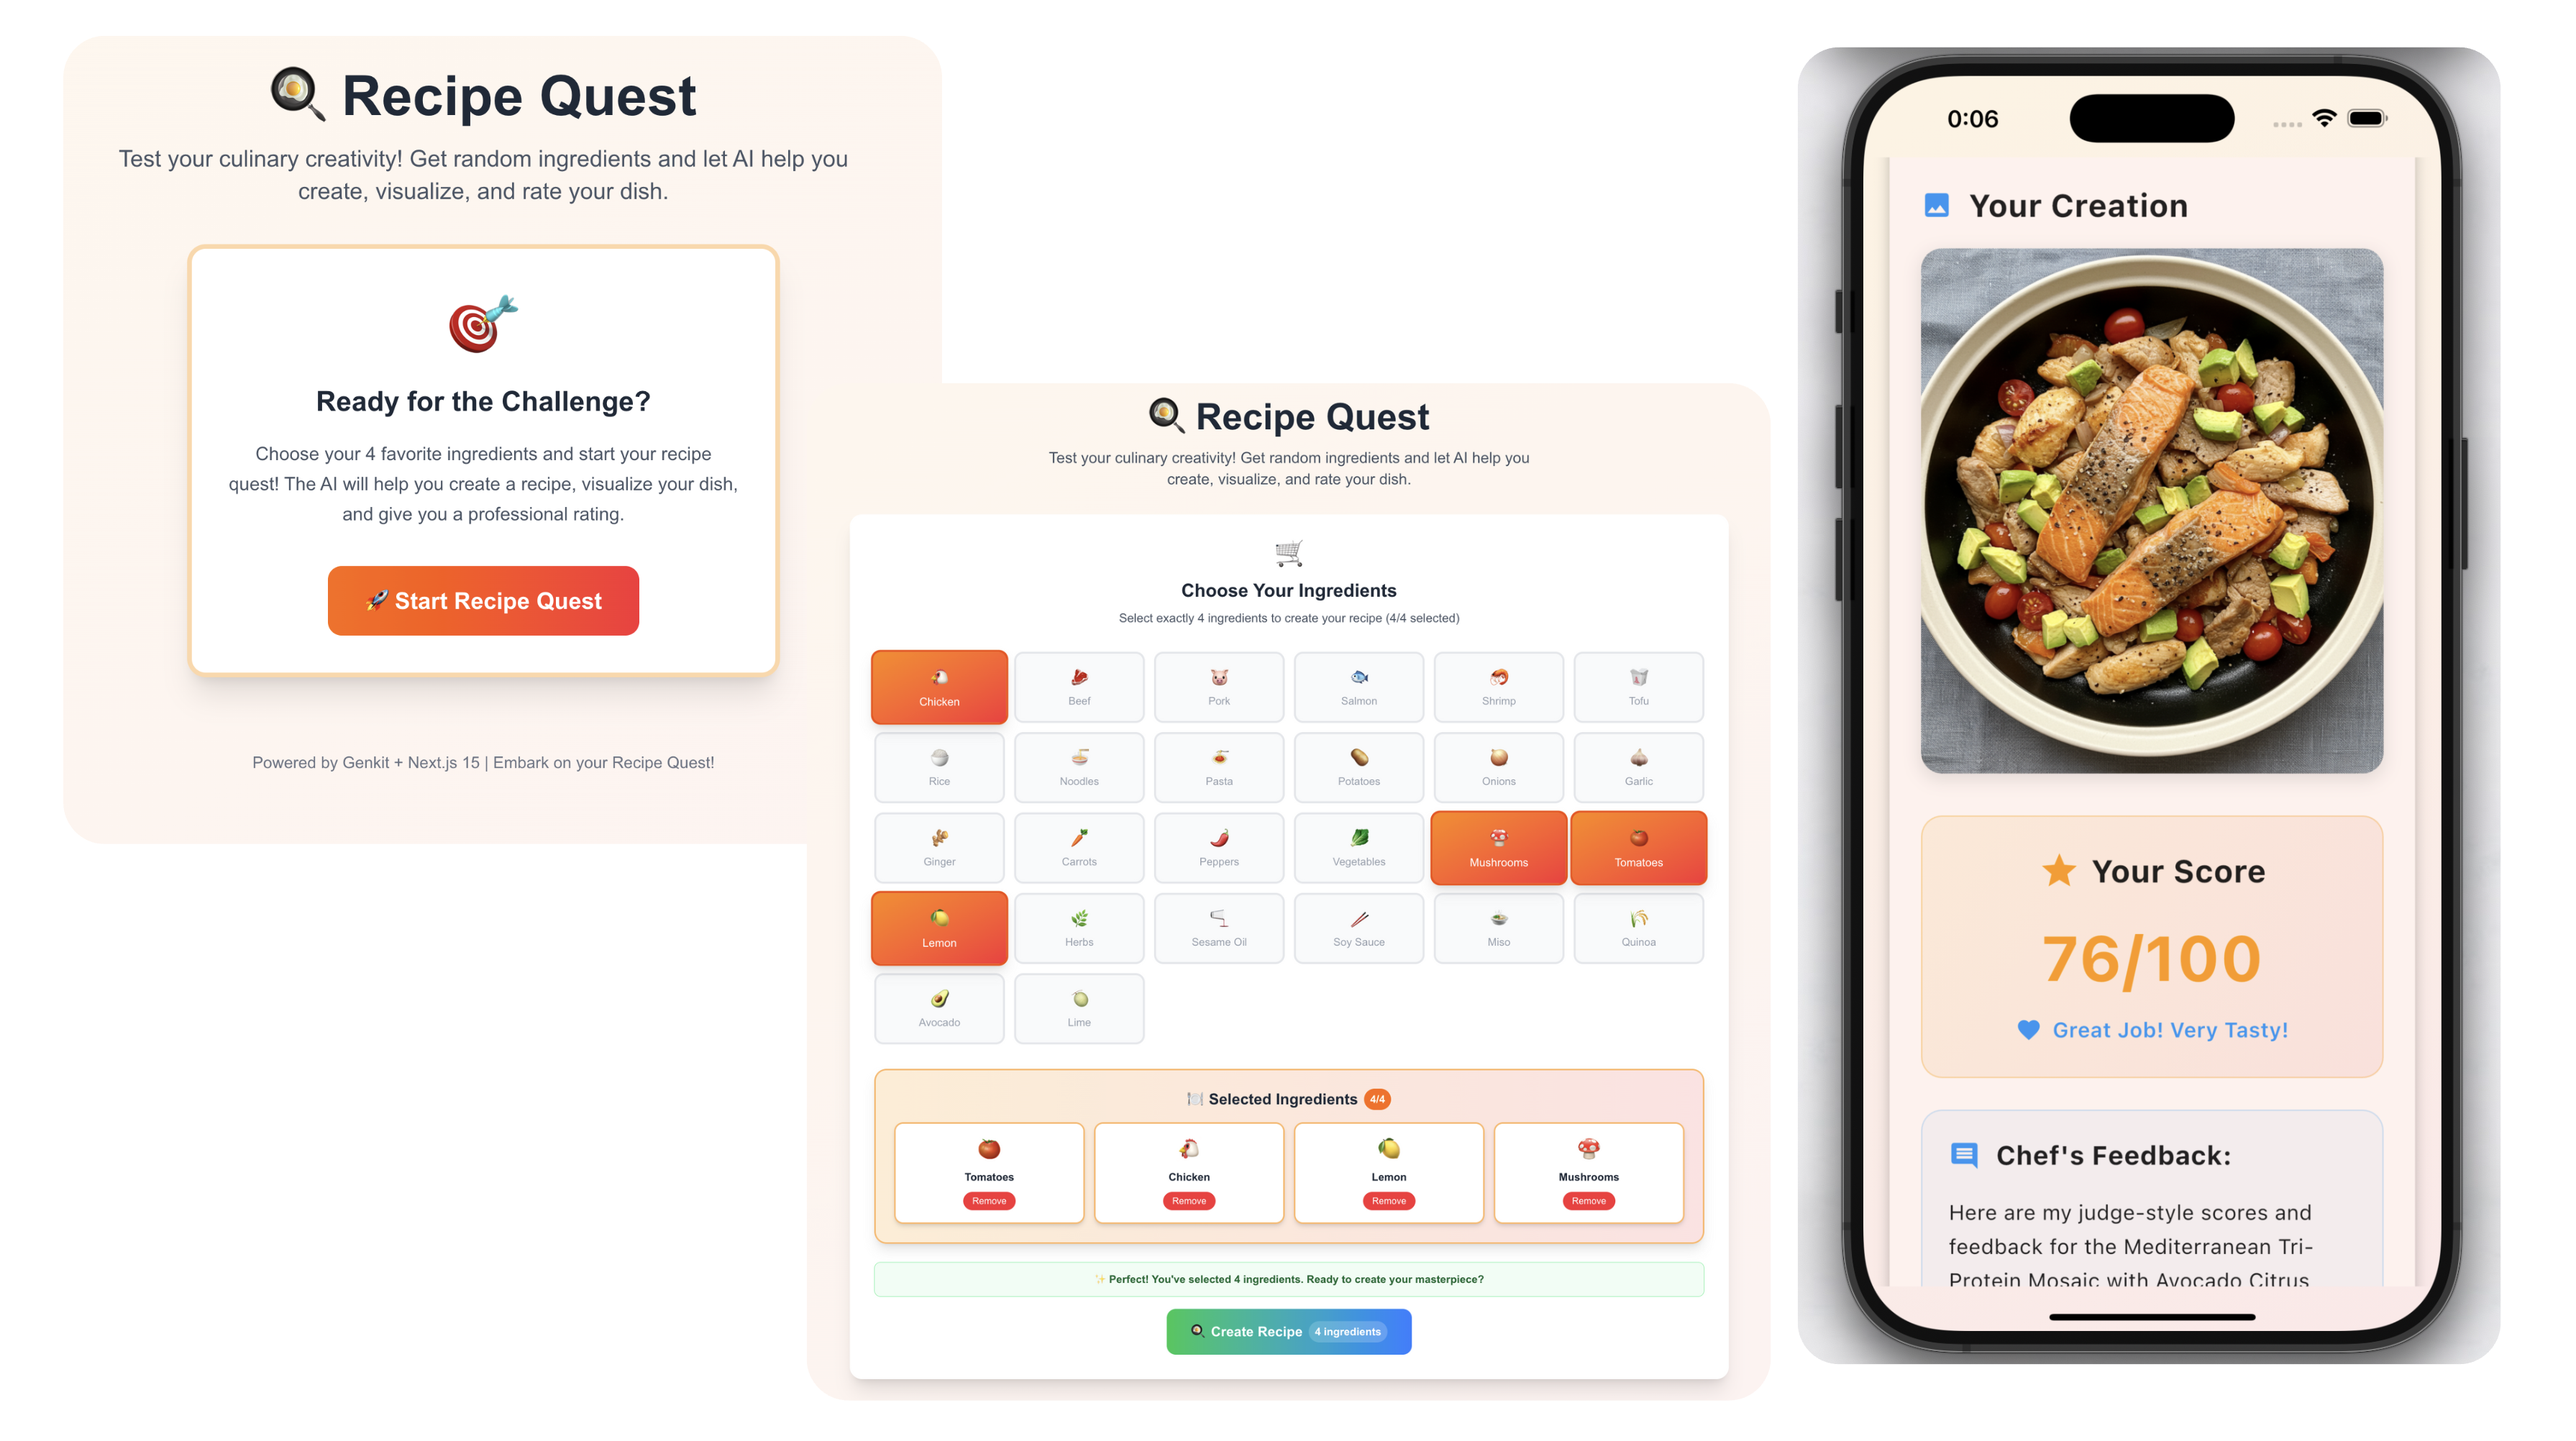
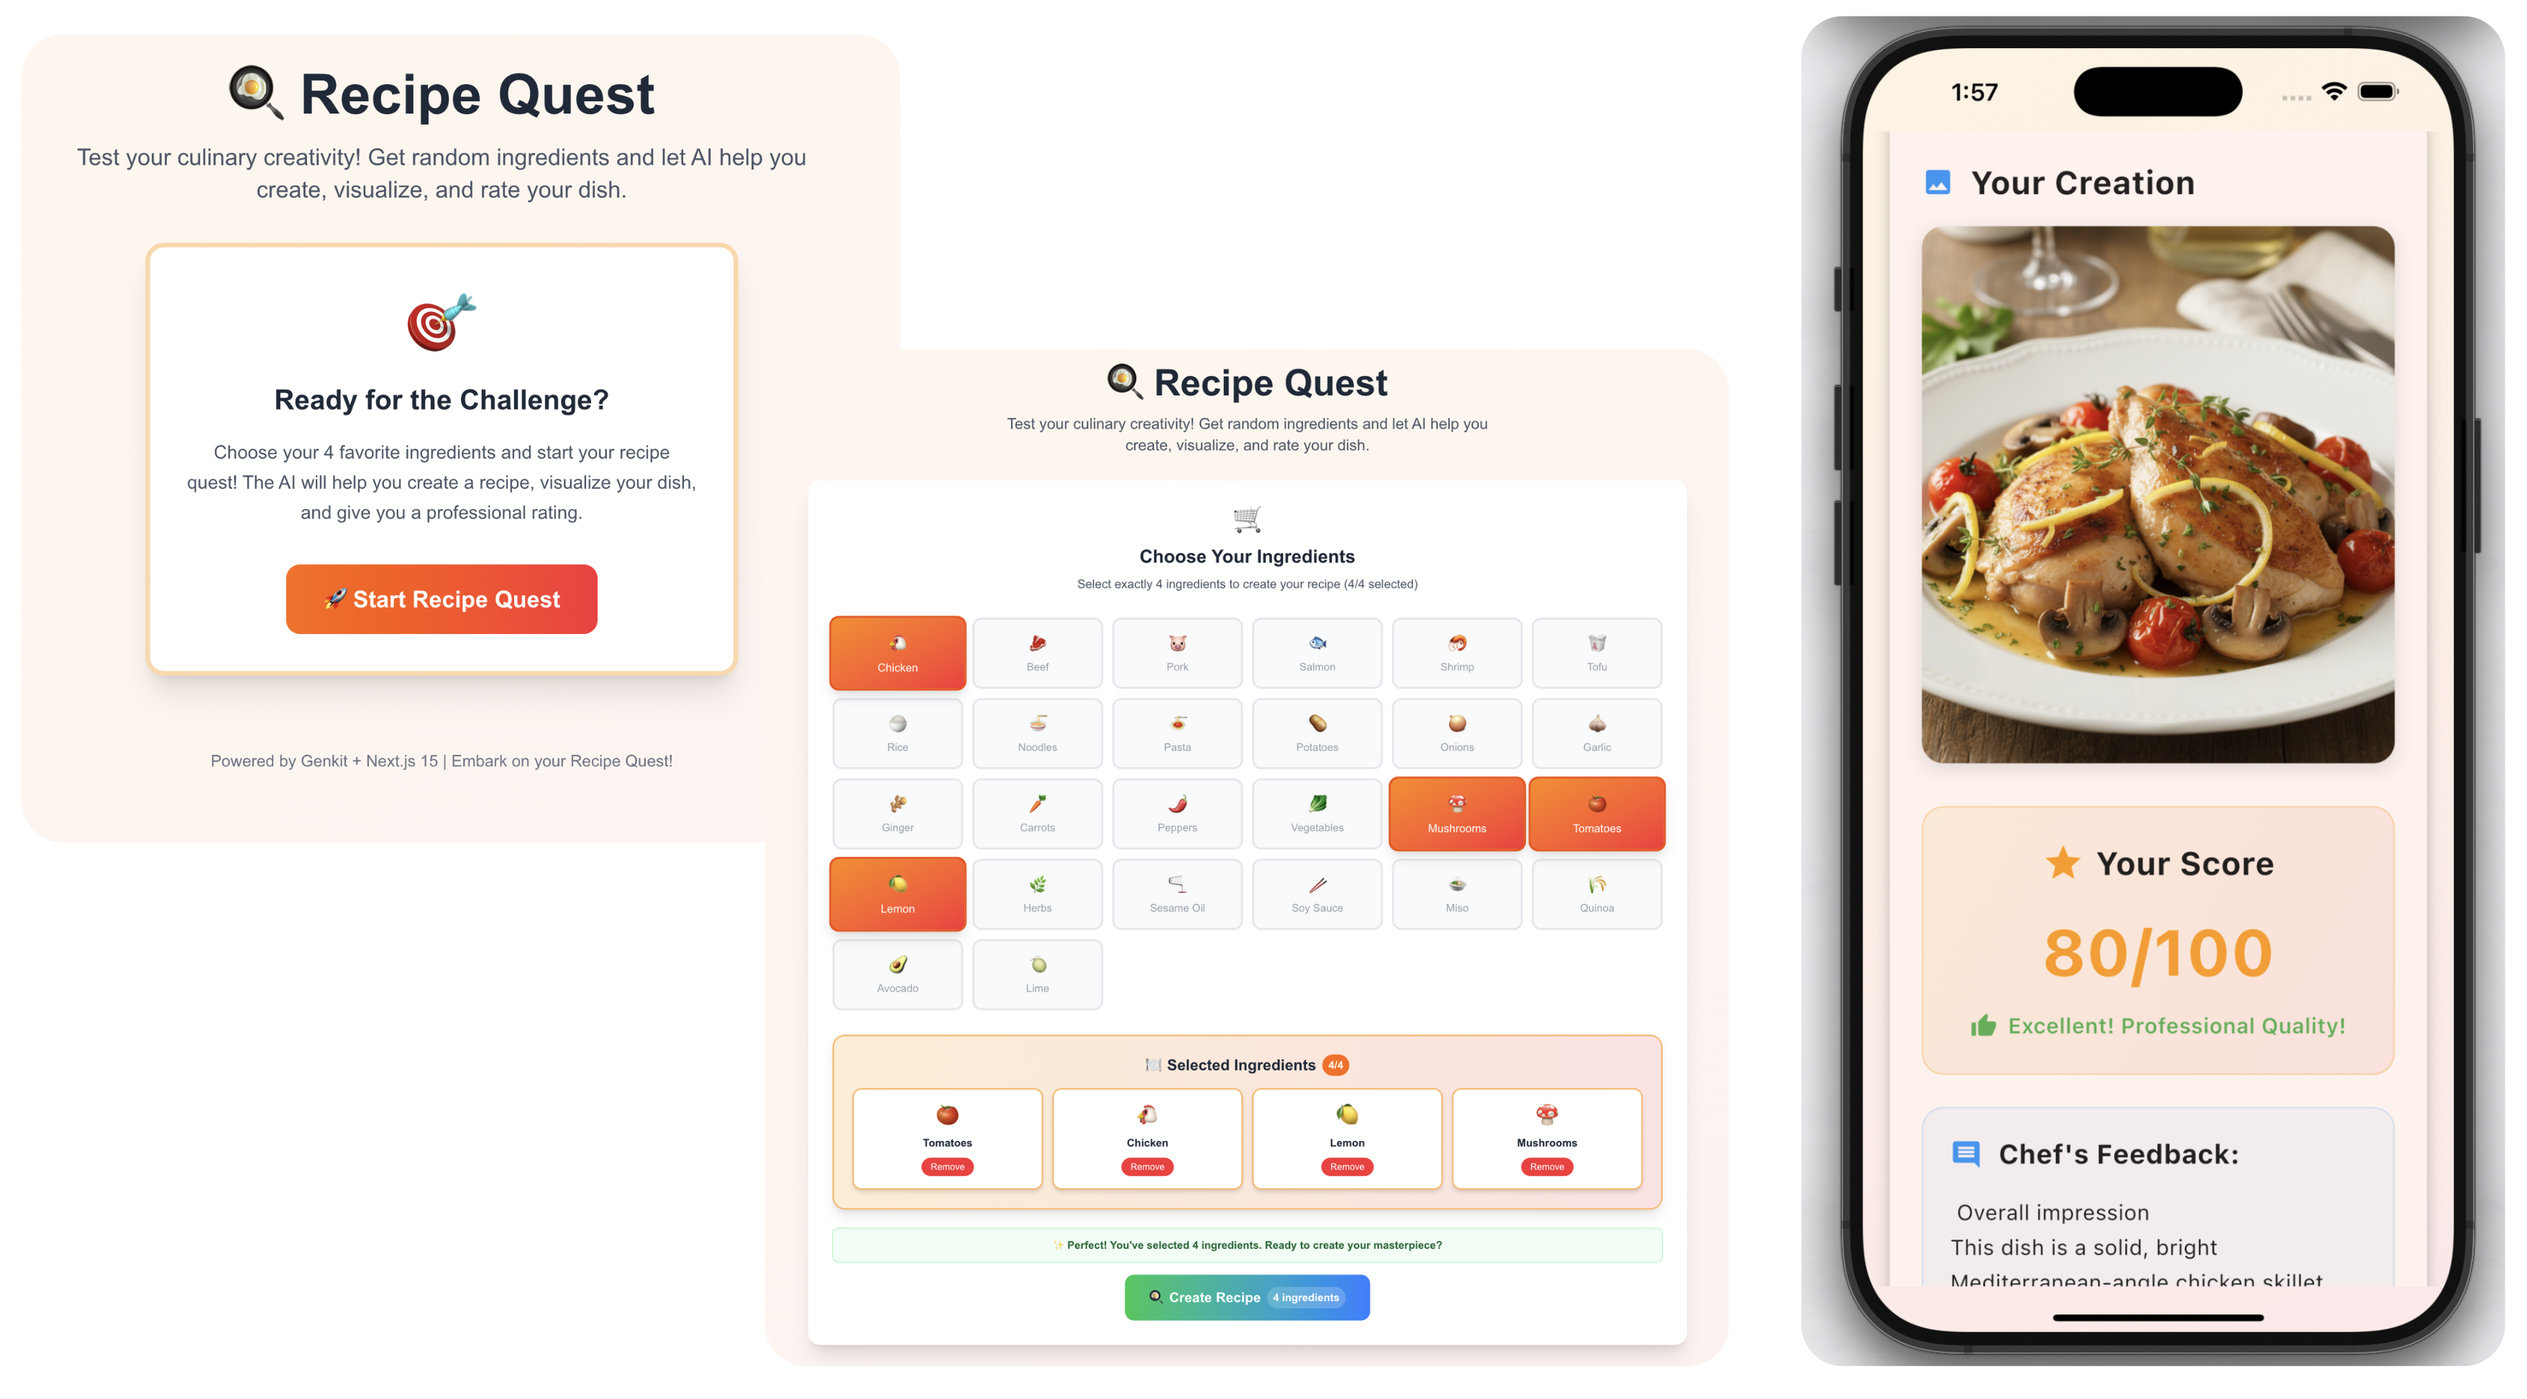
feat: update image generation to use Gemini 2.5 Flash Image

diff --git a/src/examples/chapter-15/server/internal/flows/create_image.go b/src/examples/chapter-15/server/internal/flows/create_image.go
@@ -32,16 +32,12 @@ The image should be:
 - With good lighting and composition`,
 				input.DishName, input.Description)
 
-			// Generate image using Imagen3
+			// Generate image using Gemini 2.5 Flash Image Preview
 			resp, err := genkit.Generate(ctx, g,
-				ai.WithModelName("googleai/imagen-3.0-generate-002"),
+				ai.WithModelName("googleai/gemini-2.5-flash-image-preview"),
 				ai.WithPrompt(prompt),
-				ai.WithConfig(&genai.GenerateImagesConfig{
-					NumberOfImages:    1,
-					AspectRatio:       "1:1",
-					SafetyFilterLevel: genai.SafetyFilterLevelBlockLowAndAbove,
-					PersonGeneration:  genai.PersonGenerationAllowAll,
-					OutputMIMEType:    "image/png",
+				ai.WithConfig(&genai.GenerateContentConfig{
+					ResponseModalities: []string{"IMAGE"},
 				}),
 			)
 			if err != nil {
